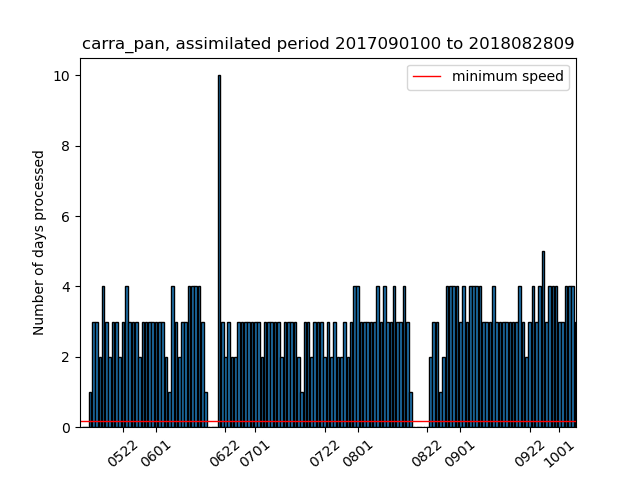
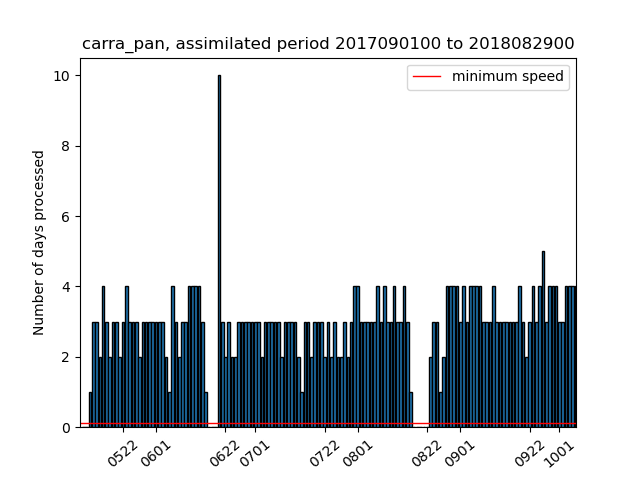
update repo

Changed region(s): [[0.125, 0.875, 0.9062, 0.9062], [0.8438, 0.0625, 0.9062, 0.0938]]

diff --git a/current_state_sims.html b/current_state_sims.html
@@ -2,18 +2,18 @@
 <h1>Estimated completion dates and simulation speeds</h1>
 <p>Stream (production) completion date based on 30d (7d) moving avg speed</p>
 <p><a href="https://docs.google.com/document/d/1zDKAxuEXYnWWYzT3SZnZwY5WW8nodUMeYRjAGz46coc/edit#">Details of the calculation of the completion dates</a></p>
-<p>Last update: 2021/10/07 00:40:23 UTC</p>
-<p>Total progress CARRA: 99.44% <a href="https://hirlam.org/portal/CARRA/Progress/GanntChart_CARRA.html"> (see detailed progress meter in Gantt chart) </a></p>
+<p>Last update: 2021/10/07 06:45:20 UTC</p>
+<p>Total progress CARRA: 99.55% <a href="https://hirlam.org/portal/CARRA/Progress/GanntChart_CARRA.html"> (see detailed progress meter in Gantt chart) </a></p>
 <p>Total progress PANARCTIC: 91.67% </p>
 <p><a href="https://hirlam.org/portal/CARRA/Progress/waiting_times.html"> Queue waiting times for all streams</a></p>
 <p><a href="https://hirlam.org/portal/CARRA/Progress/mars_status.html"> MARS archive throughput </a></p>
 <html><table border="1"><tr><th>expId</th><th>Current assimilated date</th><th>End date of stream </th><th> Completion date</th><th> Avg. throughput (7d) </th> <th>Avg. throughput (30d) </th> <th> Remarks</tr>
-<tr bgcolor="#FFFF00"><td>carra_NE_3</td><td>2021063000</td><td>2021063021</td><td>2021100700</td><td>(0.0) days/day</td><td>(2.63) days/day</td><td>Inactive the past week</tr>
+<tr bgcolor="#FFFF00"><td>carra_NE_3</td><td>2021063000</td><td>2021063021</td><td>2021100706</td><td>(0.0) days/day</td><td>(2.63) days/day</td><td>Inactive the past week</tr>
 <tr bgcolor="#33FF38"><td>carra_NE_4</td><td>1992090100</td><td>1992083021</td><td>Finished on 20210824</td><td>(0.0) days/day</td><td>(0.0) days/day</td><td>Stream finished</tr>
 <tr bgcolor="#33FF38"><td>carra_NE_5</td><td>1994090100</td><td>1994083021</td><td>Finished on 20210824</td><td>(0.0) days/day</td><td>(0.0) days/day</td><td>Stream finished</tr>
-<tr bgcolor="#33FF38"><td>carra_NE_6</td><td>1997070100</td><td>1997063021</td><td>2021100611</td><td>(0.0) days/day</td><td>(1.77) days/day</td><td>Stream finished</tr>
-<tr bgcolor="#FFFF00"><td>carra_IGB_3</td><td>2021063000</td><td>2021063021</td><td>2021100700</td><td>(0.0) days/day</td><td>(2.7) days/day</td><td>Inactive the past week</tr>
-<tr bgcolor="#33FF38"><td>carra_IGB_4</td><td>1992090100</td><td>1992083021</td><td>2021080800</td><td>(0.0) days/day</td><td>(0.03) days/day</td><td>Stream finished</tr>
-<tr bgcolor="#33FF38"><td>carra_IGB_5</td><td>1994090100</td><td>1994083021</td><td>2021100611</td><td>(0.0) days/day</td><td>(3.57) days/day</td><td>Stream finished</tr>
-<tr bgcolor="#FFA500"><td>carra_IGB_6</td><td>1997013100</td><td>1997063021</td><td>2021110114</td><td>(6.29) days/day</td><td>(5.87) days/day</td><td>Completion date after project end (20211031)</tr>
-<tr bgcolor="#FFFFFF"><td>carra_pan</td><td>2018082809</td><td>2018090100</td><td>2021100804</td><td>(3.57) days/day</td><td>(3.4) days/day</td><td></tr>
+<tr bgcolor="#33FF38"><td>carra_NE_6</td><td>1997070100</td><td>1997063021</td><td>2021100617</td><td>(0.0) days/day</td><td>(1.77) days/day</td><td>Stream finished</tr>
+<tr bgcolor="#FFFF00"><td>carra_IGB_3</td><td>2021063000</td><td>2021063021</td><td>2021100706</td><td>(0.0) days/day</td><td>(2.7) days/day</td><td>Inactive the past week</tr>
+<tr bgcolor="#33FF38"><td>carra_IGB_4</td><td>1992090100</td><td>1992083021</td><td>2021080806</td><td>(0.0) days/day</td><td>(0.03) days/day</td><td>Stream finished</tr>
+<tr bgcolor="#33FF38"><td>carra_IGB_5</td><td>1994090100</td><td>1994083021</td><td>2021100617</td><td>(0.0) days/day</td><td>(3.57) days/day</td><td>Stream finished</tr>
+<tr bgcolor="#FFA500"><td>carra_IGB_6</td><td>1997020112</td><td>1997063021</td><td>2021110112</td><td>(6.43) days/day</td><td>(5.9) days/day</td><td>Completion date after project end (20211031)</tr>
+<tr bgcolor="#FFFFFF"><td>carra_pan</td><td>2018082900</td><td>2018090100</td><td>2021100803</td><td>(3.71) days/day</td><td>(3.43) days/day</td><td></tr>
